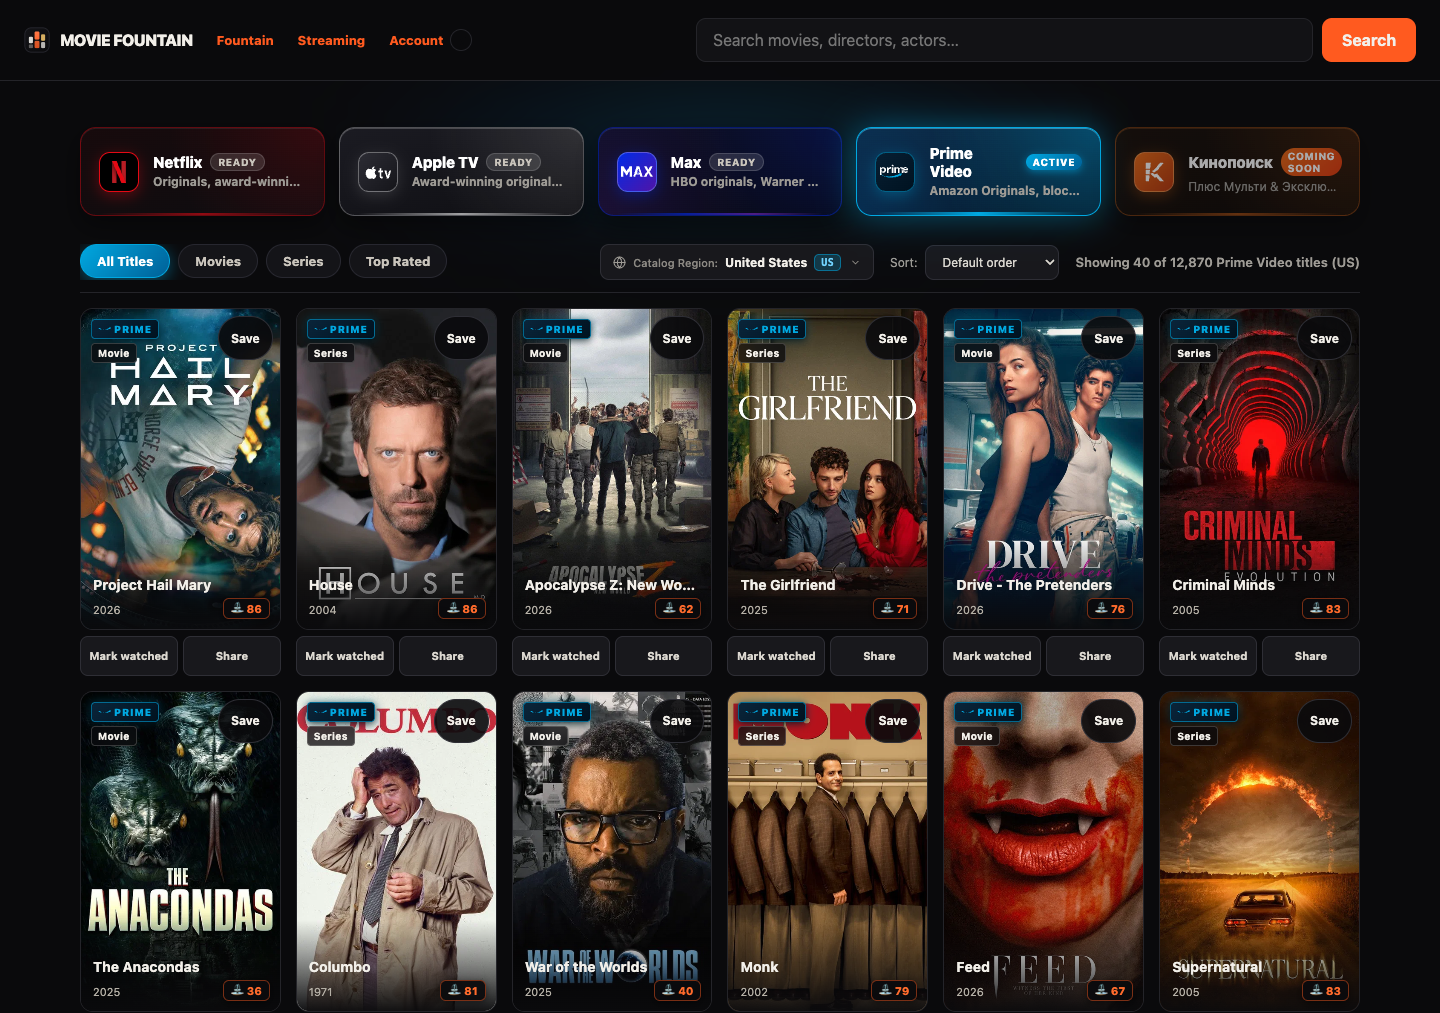
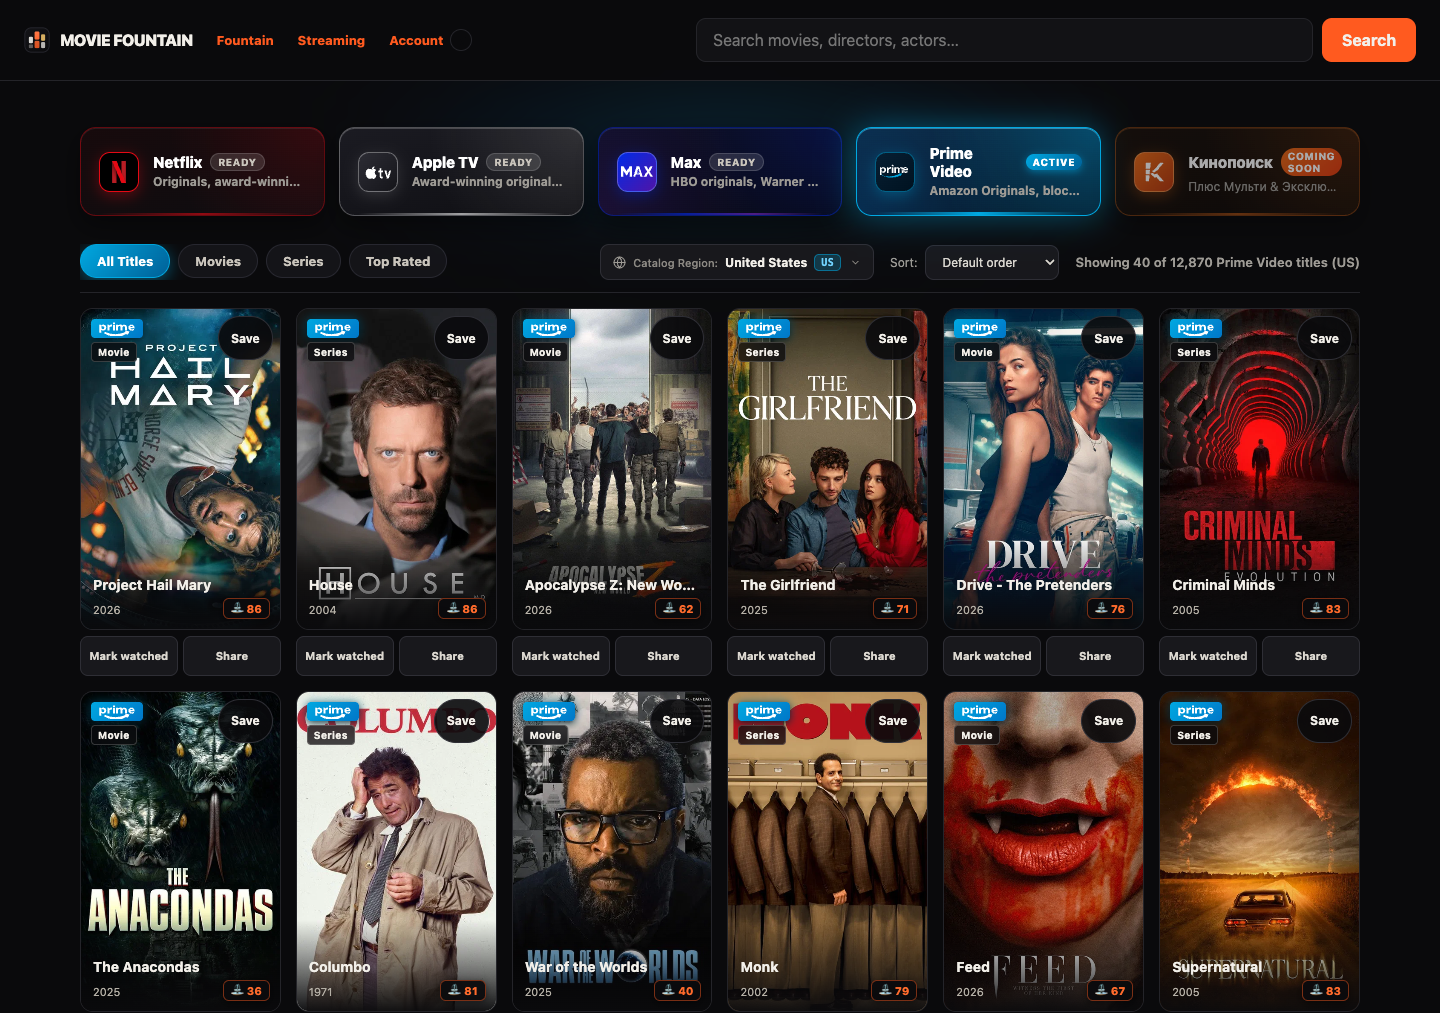
style: upgrade Prime Video poster badge with official wordmark and azure pill

diff --git a/app.js b/app.js
@@ -1496,7 +1496,7 @@ function streamingCard(item) {
   let providerChip = `<span class="netflix-chip">NETFLIX</span>`;
   let providerCode = "netflix";
   if (isPrime) {
-    providerChip = `<span class="prime-chip"><svg viewBox="0 0 24 10" width="13" height="6" fill="#00a8e1" style="vertical-align:1px;margin-right:3px;" aria-hidden="true"><path d="M1 4c5 3 14 3.5 20-1l-.7-.7c1.6.2 3 .3 4.2-.1-.6.9-1.3 2-1.8 3l-.7-.6C16 7.5 7 7.2 2.5 3.3l-1.5.7z"/></svg>PRIME</span>`;
+    providerChip = `<span class="prime-chip" aria-label="Prime Video"><svg viewBox="0 0 62 23" width="38" height="14" aria-hidden="true"><path fill="#ffffff" fill-rule="evenodd" d="M2 4.5h3.2v1.1c.8-.9 1.9-1.4 3.3-1.4 2.8 0 4.8 2.1 4.8 5s-2 5-4.8 5c-1.4 0-2.5-.5-3.3-1.4v4.7H2V4.5zm3.3 4.7c0 1.6 1 2.7 2.4 2.7s2.4-1.1 2.4-2.7-1-2.7-2.4-2.7-2.4 1.1-2.4 2.7zM15.2 4.5h3.2v1.6c.7-1.2 1.8-1.9 3.3-1.9.4 0 .8.1 1.1.2v3c-.4-.1-.8-.1-1.3-.1-1.8 0-3 1-3 3.1V14h-3.3V4.5zm9.2-3.7h3.4v2.6h-3.4V.8zm0 3.7h3.4V14h-3.4V4.5zm5.8 0h3.2v1.3c.7-1 1.8-1.6 3.2-1.6 1.5 0 2.6.6 3.2 1.7.8-1.1 2-1.7 3.5-1.7 2.4 0 4 1.6 4 4.1V14H44V8.9c0-1.4-.7-2.2-1.9-2.2s-2.1.8-2.1 2.2V14h-3.3V8.9c0-1.4-.7-2.2-1.9-2.2s-2.1.8-2.1 2.2V14h-3.3V4.5zm29.4 5.6h-6.8c.2 1.3 1.2 2 2.7 2 1 0 1.9-.3 2.6-.9l1.4 1.8c-1 .8-2.3 1.3-4.1 1.3-3.4 0-5.8-2.1-5.8-5s2.3-5.1 5.3-5.1c3.1 0 4.9 2.1 4.9 4.9 0 .4 0 .7-.2 1zm-6.8-1.8h4c-.1-1.2-.9-2-2-2-1.1 0-1.8.8-2 2z"/><path fill="#ffffff" d="M11.3 16.4c9.7 4.7 24.1 5 34.4-.5l-1.6-1.1c2.6-.2 5.4-.1 7.1.6-.5 1.9-1.4 4.1-2.6 5.6l-1.3-1.4c-10.8 6.2-26.6 5.7-37.2-.7-.7-.4-.1-1.8 1.2-2.5z"/></svg></span>`;
     providerCode = "prime";
   } else if (isMax) {
     providerChip = `<span class="max-chip">MAX</span>`;

diff --git a/site.css b/site.css
@@ -853,17 +853,14 @@ html[data-theme="current"] [data-active-provider="prime"] button.streaming-tab.i
 }
 
 .prime-chip {
-  padding: 3px 6px;
+  padding: 3px 7px 2px;
   border-radius: 4px;
-  background: linear-gradient(135deg, #0a253a 0%, #001220 100%);
-  border: 1px solid rgba(0, 168, 225, 0.55);
-  color: #00a8e1;
-  font-size: 10px;
-  font-weight: 900;
-  letter-spacing: .08em;
-  box-shadow: 0 2px 8px rgba(0, 0, 0, 0.7), 0 0 10px rgba(0, 168, 225, 0.35);
+  background: linear-gradient(135deg, #00a8e1 0%, #0077c8 100%);
+  color: #ffffff;
+  box-shadow: 0 2px 8px rgba(0, 0, 0, 0.7), 0 0 10px rgba(0, 168, 225, 0.45);
   display: inline-flex;
   align-items: center;
+  justify-content: center;
 }
 
 .media-type-chip {

diff --git a/index.html b/index.html
@@ -44,7 +44,7 @@
       Movie Fountain — Discover Movies, Letterboxd Top 500 & Multi-Source
       Ratings
     </title>
-    <link rel="stylesheet" href="/site.css?v=fountain-ratings-57" />
+    <link rel="stylesheet" href="/site.css?v=fountain-ratings-58" />
     <script type="application/ld+json">
       {
         "@context": "https://schema.org",
@@ -125,7 +125,7 @@
         >About &amp; source</a
       >
     </footer>
-    <script src="/features.js?v=fountain-ratings-57" defer></script>
-    <script src="/app.js?v=fountain-ratings-57" defer></script>
+    <script src="/features.js?v=fountain-ratings-58" defer></script>
+    <script src="/app.js?v=fountain-ratings-58" defer></script>
   </body>
 </html>
